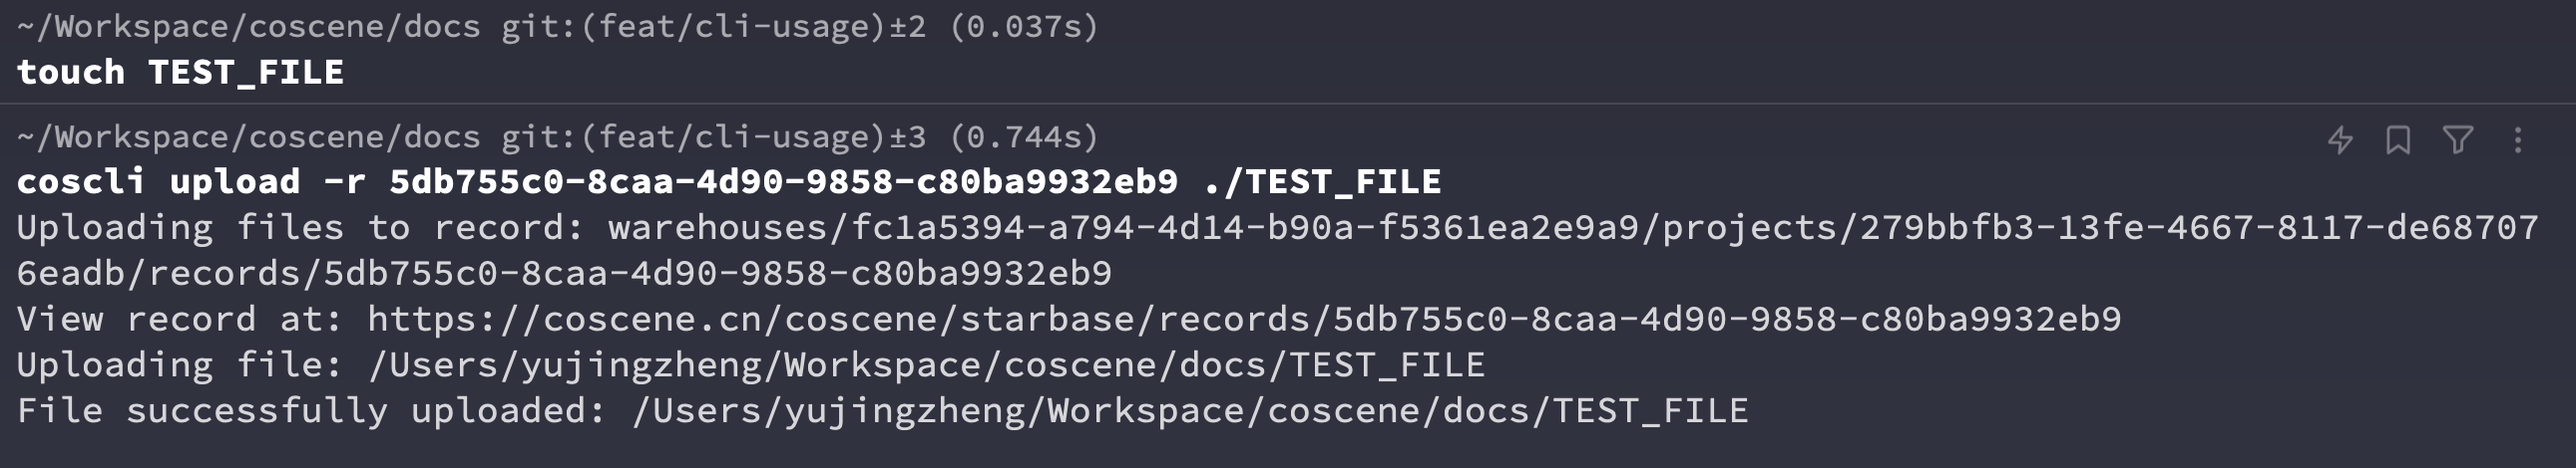
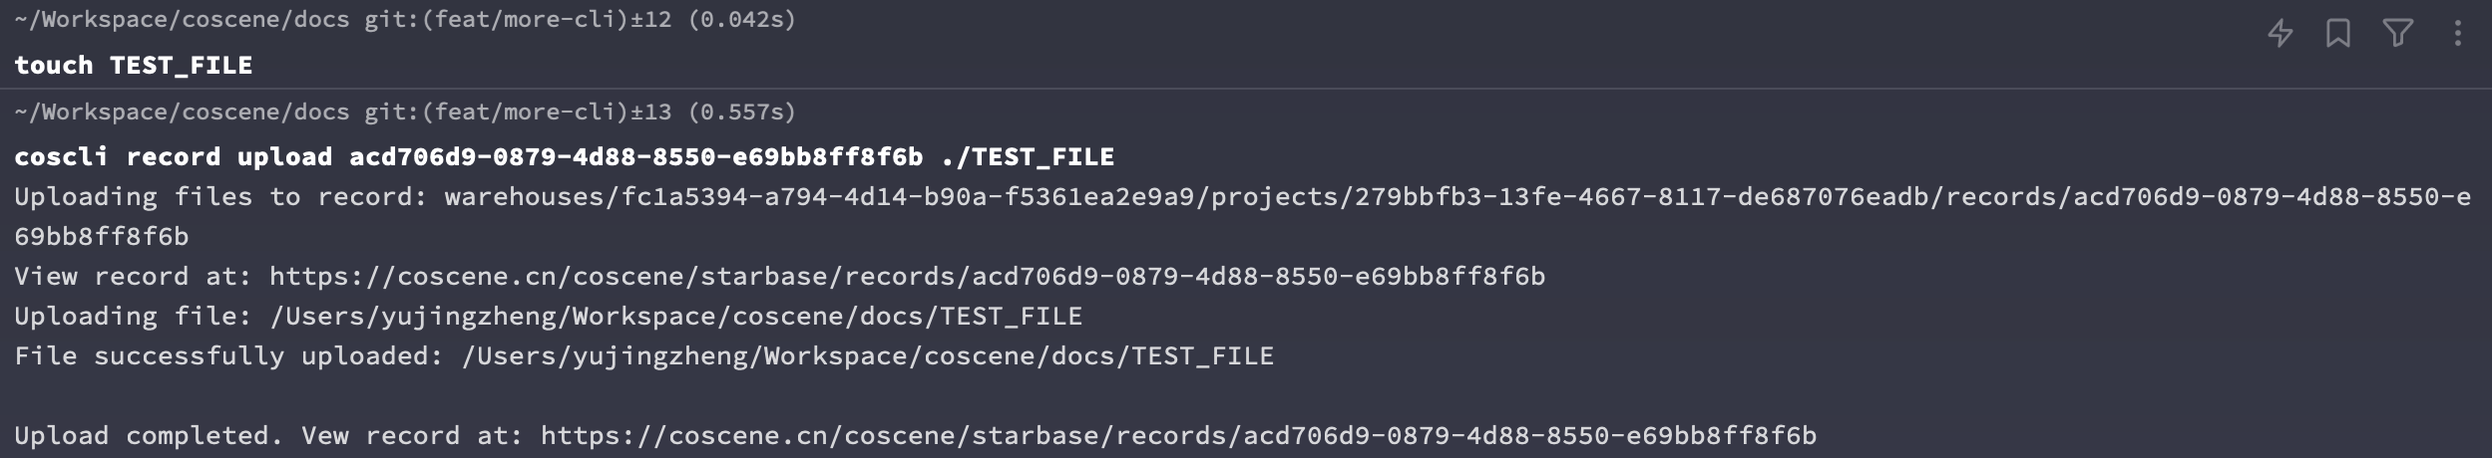
labels and delete record

diff --git a/docusaurus.config.js b/docusaurus.config.js
@@ -135,7 +135,7 @@ const config = {
         copyright: `Copyright © ${new Date().getFullYear()} coScene`,
       },
       prism: {
-        theme: themes.github,
+        theme: themes.oceanicNext,
         darkTheme: themes.dracula,
       },
       docs: {

diff --git a/docs/5-cli/2-record-operations.md b/docs/5-cli/2-record-operations.md
@@ -2,7 +2,7 @@
 
 关于刻行命令行中操作记录的详细信息，您可以使用 `coscli record -h` 来查看详细用法
 
-![cli-record-help](./img/cli-record-help.png)
+![cli-record-help](./img/coscli-record-help.png)
 
 以下是一些常见操作的示例：
 
@@ -13,7 +13,7 @@
 coscli record create -t 预留文件
 ```
 
-![coscli create record command result](./img/coscli-record-create.png)
+![coscli-record-create](./img/coscli-record-create.png)
 
 您可以点击结果中的网址，在网页中查看刚创建的记录
 
@@ -37,9 +37,12 @@ coscli record list | grep '预留' | cut -d ' ' -f1
 
 您可以将任意指定的文件或者目录内的文件上传到特定记录，我们以前述的`预留文件`记录为例
 
-```
-touch TEST_FILE # 创建一个临时文件
-coscli upload -r 5db755c0-8caa-4d90-9858-c80ba9932eb9 ./TEST_FILE # 将该文件上传到前面创建的 Record
+```bash
+# 创建一个临时文件
+touch TEST_FILE
+
+# 将该文件上传到前面创建的 Record
+coscli record upload acd706d9-0879-4d88-8550-e69bb8ff8f6b ./TEST_FILE
 ```
 
 ![coscli-upload-file-to-record](./img/coscli-upload-file-to-record.png)
@@ -50,24 +53,67 @@ coscli upload -r 5db755c0-8caa-4d90-9858-c80ba9932eb9 ./TEST_FILE # 将该文件
 
 ## 下载记录中的文件
 
-我们也可以将记录中的文件下载到本地，在`预留文件`这个记录中，我们又上传了一些随机文件作为示例
+我们也可以将记录中的文件下载到本地，在`预留文件`这个记录中，我们又上传了一些随机文件作为示例。
 
 ![coscli-record-download-prepare-files](./img/coscli-record-download-prepare-files.png)
 
-```
-coscli record download -r 5db755c0-8caa-4d90-9858-c80ba9932eb9 .
+```bash
+coscli record download acd706d9-0879-4d88-8550-e69bb8ff8f6b .
 ```
 
 ![coscli-record-download-to-local](./img/coscli-record-download-to-local.png)
 
 命令行工具会将记录中的所有文件打包在以记录 ID 为名字的文件夹内，这个功能在您之后可能会遇到的下载多个记录中帮助您保持文件的独立性，方便管理。
 
+## 删除记录
+
+命令行工具也可以用来删除记录，删除记录是一个非常危险的操作，请在删除时手工确认是否真的需要
+删除记录，或者使用 `-f` 标记来强制删除。
+
+![delete-a-record](./img/delete-a-record.png)
+
+## 管理记录的标签
+
+`coscli record list` 可以很方便的看到记录的标签，我们也可以对记录的标签进行更多的操作。我们以列表中的第一个记录举例。
+
+![coscli-labels-list-record](./img/coscli-labels-list-record.png)
+
+### 给记录添加标签
+
+```
+coscli record update d253523f-5a8a-40dd-8bd9-2d289367d6ff -l afternoon,rainy
+```
+
+记录成功的添加了 afternoon 和 rainy 的标签
+
+![coscli-record-append-labels](./img/coscli-record-append-labels.png)
+
+### 替换记录的已有标签
+
+```
+coscli record update d253523f-5a8a-40dd-8bd9-2d289367d6ff --update-labels sunny,morning
+```
+
+可以看到现在的记录的标签已经从 afternoon, rainy 更新成了 sunny, morning
+
+![coscli-record-update-labels](./img/coscli-record-update-labels.png)
+
+### 删除指定标签
+
+```
+coscli record update d253523f-5a8a-40dd-8bd9-2d289367d6ff --delete-labels sunny
+```
+
+通过命令行删除 `sunny` 标签，可以看到现在只剩下了 `morning` 的标签了
+
+![coscli-record-delete-labels-list](./img/coscli-record-delete-labels-list.png)
+
 ## 常见批量操作举例
 
 ### 上传同一个文件到项目中的所有记录中
 
 ```
-coscli upload -r "$(coscli record list | grep -v 'ID' | cut -d ' ' -f1 | paste -sd, -)" ./FILE_FLAG
+coscli record list | grep -v 'ID' | cut -d ' ' -f1 | xargs -I {} coscli record upload {} ./FILE_FLAG
 ```
 
 ![coscli-upload-file-to-all-records](./img/coscli-upload-file-to-all-records.png)
@@ -80,6 +126,51 @@ coscli upload -r "$(coscli record list | grep -v 'ID' | cut -d ' ' -f1 | paste -
 
 我们立刻利用刻行命令行工具和标准的 Linux 命令行工具来一次性完成所有文件记录的创建和文件上传。
 
+```bash
+# 遍历当前目录下的所有子目录
+for dir in */; do
+  # 去除目录名称末尾的斜杠，并创建一个新的记录，获取记录ID
+  record_id=$(coscli record create -t "${dir%/}" | head -n1 | cut -d " " -f3)
+
+  # 上传当前子目录的内容到创建的记录中
+  coscli record upload -R "$record_id" "$dir"
+done
 ```
-for dir in */; do record_id=$(cos record create -t "${dir%/}" | cut -d " " -f3); cos upload -R -r "$record_id" "$dir"; done
+
+![coscli-create-and-upload-multiple-folders](./img/coscli-create-and-upload-multiple-folders.png)
+
+打开网页端任意记录就可以看到，命令行将本地的文件夹内的所有文件和文件夹都上传到了对应记录
+
+![coscli-multiple-folders-uploaded](./img/coscli-multiple-folders-uploaded.png)
+
+### 找出所有不含任何文件的空记录
+
+```bash
+# 遍历每个记录ID
+for id in $(coscli record list | grep -v 'ID' | cut -d ' ' -f1); do
+    # 获取记录中的文件列表
+    files=$(coscli record list-files $id | tail -n +2)
+
+    # 检查文件列表是否为空
+    if [[ -z "$files" ]]; then
+        # 如果文件列表为空，则输出该记录ID
+        echo "Record $id has no files."
+    fi
+done
+```
+
+### 给所有空记录打上标签
+
+```bash
+# 遍历每个记录ID
+for id in $(coscli record list | grep -v 'ID' | cut -d ' ' -f1); do
+    # 获取记录中的文件列表
+    files=$(coscli record list-files $id | tail -n +2)
+
+    # 检查文件列表是否为空
+    if [[ -z "$files" ]]; then
+        # 给所有空的记录打上标签 empty-record
+        coscli record update $id -l empty-record
+    fi
+done
 ```

diff --git a/docs/5-cli/1-install.md b/docs/5-cli/1-install.md
@@ -34,5 +34,5 @@ coscli update
 ```Bash
 # -p 后填写 <项目 slug>
 # -t 后填写 <个人访问令牌>
-cos login set -p <项目 slug> -t <个人访问令牌>
+coscli login set -p <项目 slug> -t <个人访问令牌>
 ```
